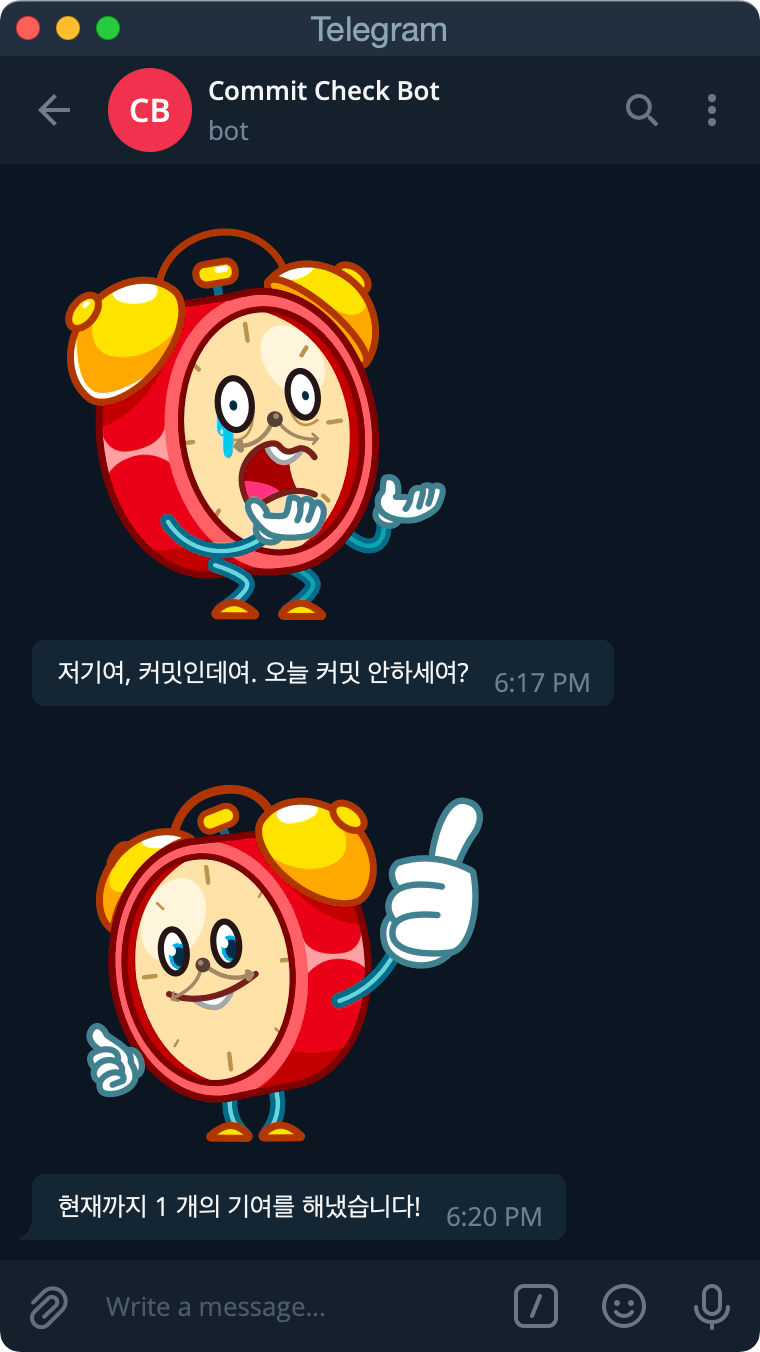
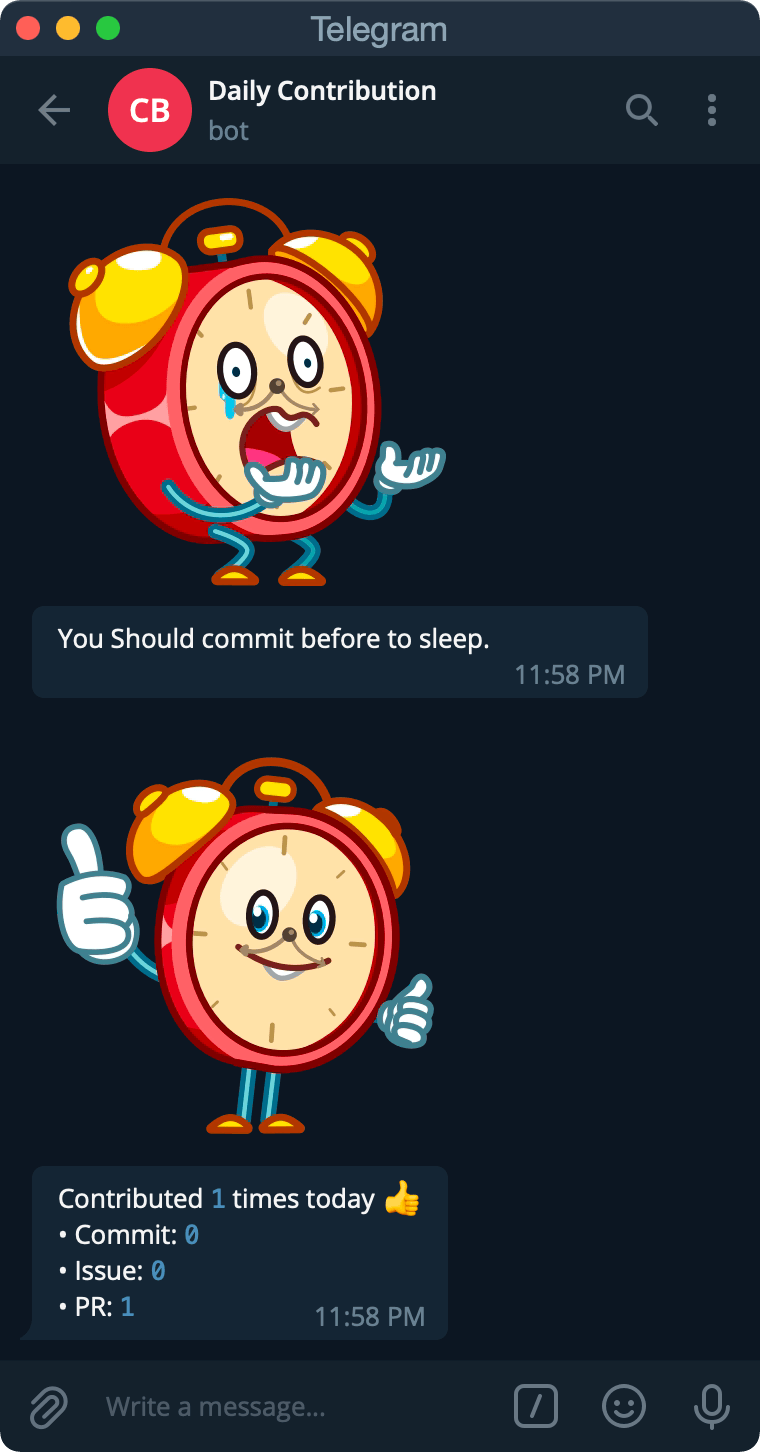
Change template messages to english

diff --git a/commitTelegramBot/__init__.py b/commitTelegramBot/__init__.py
@@ -6,14 +6,10 @@ from typing import Dict
 import requests
 
 warning_scripts = [
-    '커밋좀;',
-    '저기여, 커밋인데여. 오늘 커밋 안하세여?',
-    '**커밋은 하고 자야지?**',
-    '커밋하세에ㅔㅔㅔㅔㅁㅁㅁ!!!!~~빼애ㅐㅣ애애애액!!!!!!!!!~~',
-    '커밋해야 한다(~~수화기를 들며~~)',
-    '커밋 컴 윗 미 컴윗',
+    'Hey, Are you not committing today?',
+    '**You Should commit before to sleep.**',
     '*Make Commit log Great Again*',
-    '**1 Day 1 Commit** (찡긋)'
+    '**1 Day 1 Commit** 😉'
 ]
 
 stickers = {
@@ -75,7 +71,7 @@ class CommitTelegramBot:
             self.send_sticker(stickers['thumbs_up'])
             self.send_message('\n'.join(
                 (
-                    f'현재까지 `{count}` 개의 기여를 해냈습니다 👍',
+                    f'Contributed `{count}` times today 👍',
                     f'• Commit: `{contributions["totalCommitContributions"]}`',
                     f'• Issue: `{contributions["totalIssueContributions"]}`',
                     f'• PR: `{contributions["totalPullRequestContributions"]}`',
